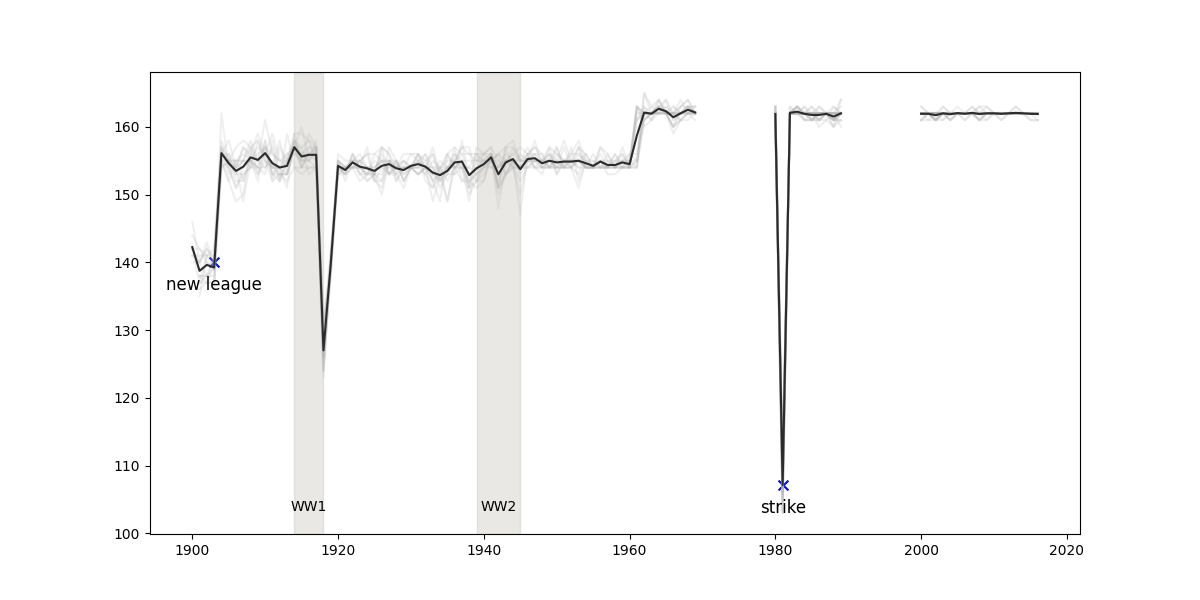
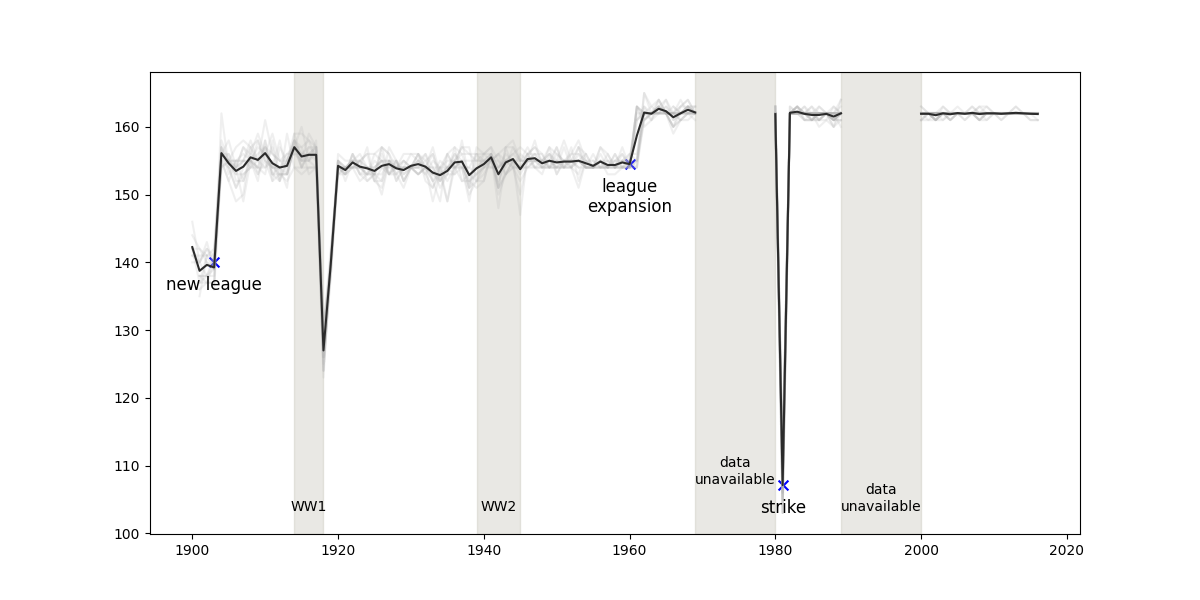
minor cleanup

Changed region(s): [[0.4933, 0.12, 0.6475, 0.9], [0.6783, 0.12, 0.7708, 0.9]]

diff --git a/final-project/src/plots/meta/event_plot.py b/final-project/src/plots/meta/event_plot.py
@@ -53,9 +53,6 @@ def games_per_year_per_team(df):
 
     games_per_year_avg = data['games_per_year_avg']
     log.debug('games_per_year_overall: %s', data)
-
-    # log.debug('min year: %s', min(games_per_year_avg, key=games_per_year_avg.get))
-    # log.debug('mins: %s', dict(sorted(games_per_year_avg.items(), key=lambda x: x[1])))
     log.debug('games_per_year_avg: %s', games_per_year_avg)
 
     plt_with_disruption(ax, games_per_year_avg.keys(), games_per_year_avg.values())
@@ -63,4 +60,7 @@ def games_per_year_per_team(df):
     draw_hint(ax, [1903, count_per_year[1903]], 'new league')
     highlight_interval(ax, [1914, 1918], 'WW1')
     highlight_interval(ax, [1939, 1945], 'WW2')
+    highlight_interval(ax, [1969, 1980], 'data\nunavailable', text_vert_padding=7)
+    highlight_interval(ax, [1989, 2000], 'data\nunavailable')
+    draw_hint(ax, [1960, games_per_year_avg[1960]], 'league\nexpansion')
     draw_hint(ax, [1981, games_per_year_avg[1981]], 'strike')

diff --git a/final-project/src/utils/styling_utils.py b/final-project/src/utils/styling_utils.py
@@ -32,7 +32,7 @@ def draw_hint(ax, position, text, horizontalalignment='center', verticalalignmen
             verticalalignment=verticalalignment)
 
 
-def highlight_interval(ax, interval, text, interval_color='#b8b5a7'):
+def highlight_interval(ax, interval, text, interval_color='#b8b5a7', text_vert_padding=3):
     ax.axvspan(interval[0], interval[1],
                label=text, color=interval_color, alpha=0.3)
 
@@ -43,7 +43,7 @@ def highlight_interval(ax, interval, text, interval_color='#b8b5a7'):
     # ax.plot([start, start], height, color='black', linestyle='dotted', linewidth=2, alpha=.5)
     # ax.plot([end, end], height, color='black', linestyle='dotted', linewidth=2, alpha=.5)
 
-    ax.text((start + end) / 2, ax.get_ylim()[0] + 3, text, color='black',
+    ax.text((start + end) / 2, ax.get_ylim()[0] + text_vert_padding, text, color='black',
             ha='center', va='bottom')
 
 
